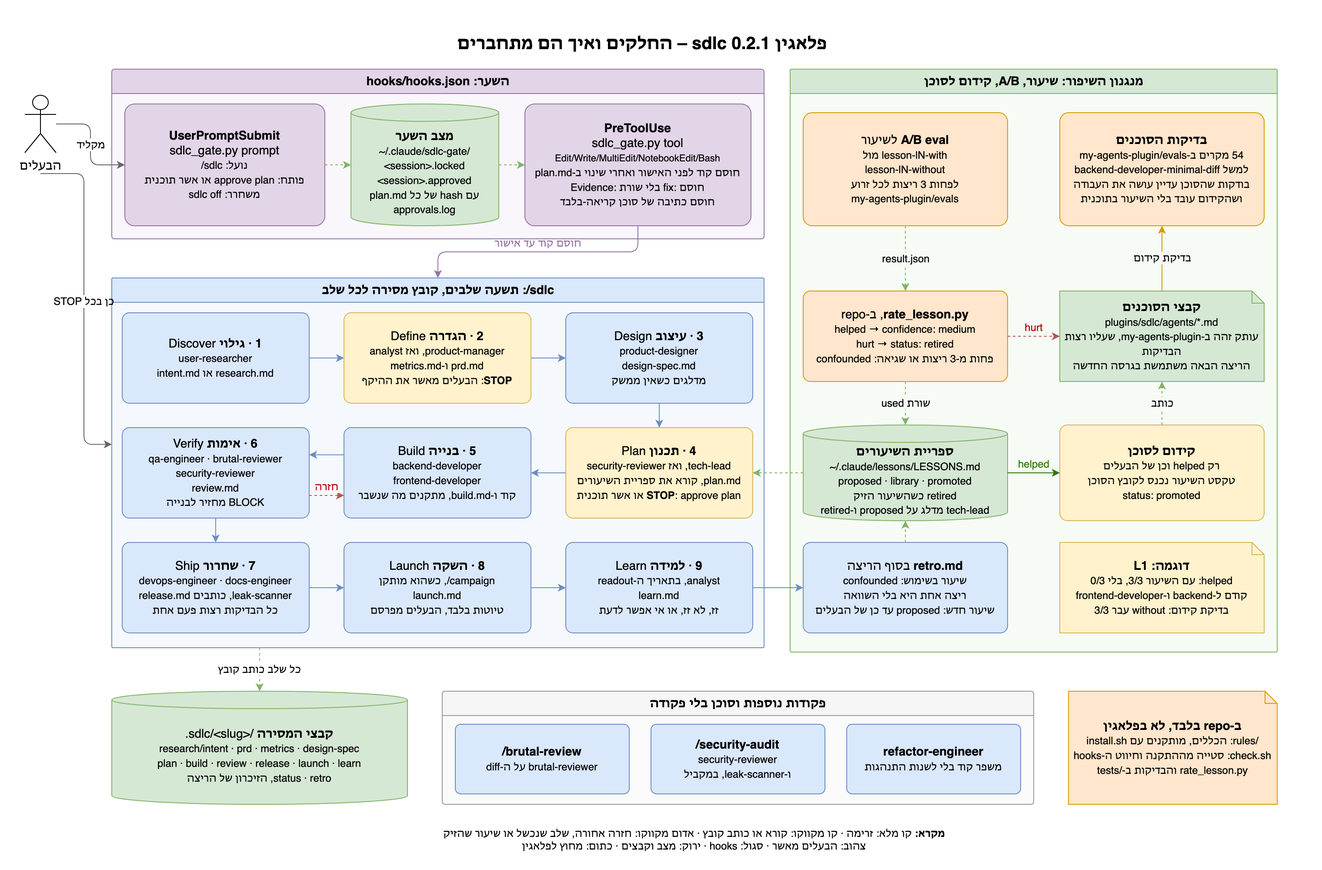
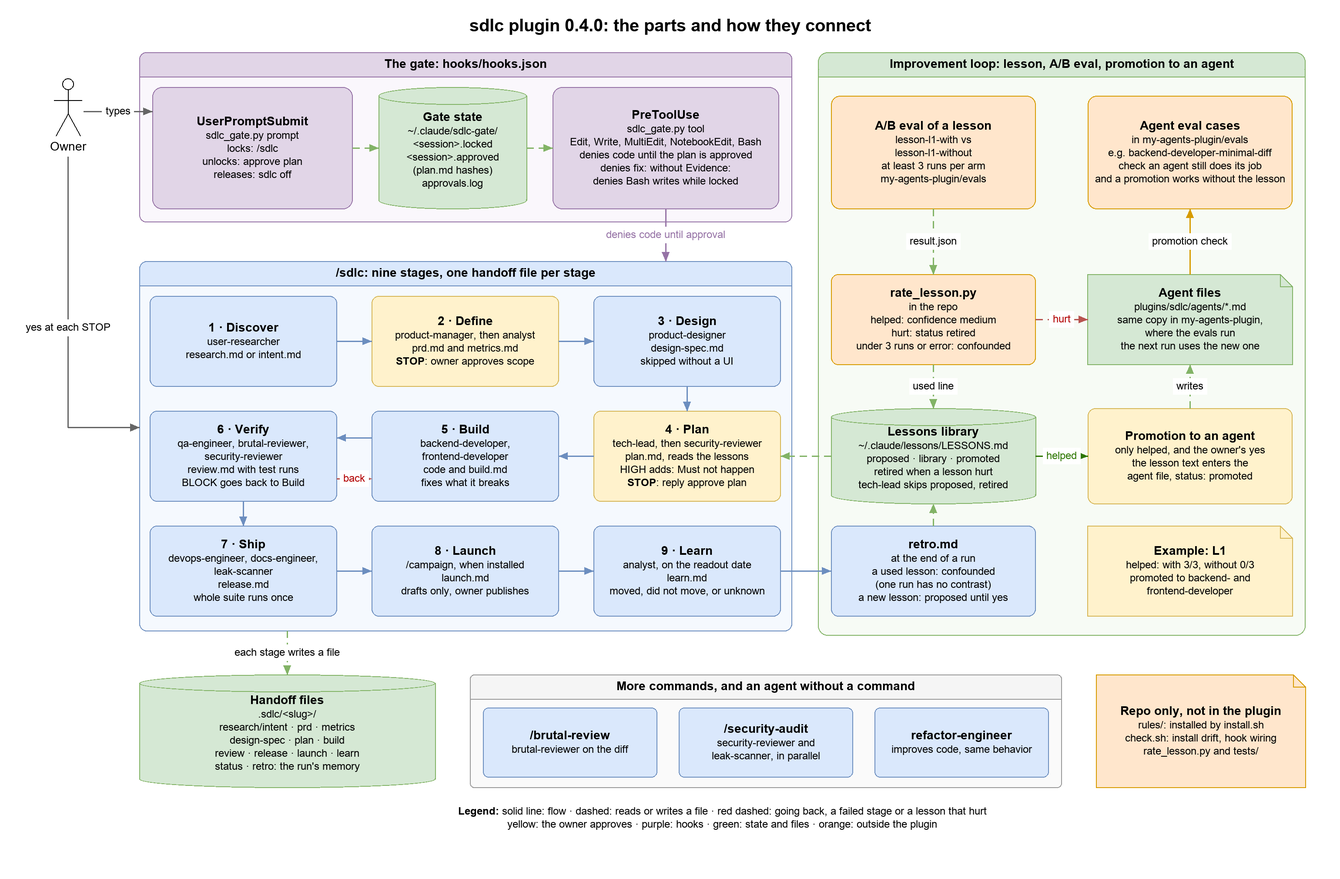
improve: shorten the readme and redraw the architecture diagram in english
README cut from 172 to 115 lines; the lessons library guide moved to docs/lessons-library.md unchanged. The diagram is English and shows 0.4.0 (the old one was Hebrew and showed 0.2.1).

diff --git a/README.md b/README.md
@@ -1,87 +1,34 @@
 # sdlc
 
-A risk-tiered software development lifecycle for [Claude Code](https://code.claude.com): role agents that plan, build, verify and ship, gates where a person decides, and evidence instead of claims.
+A risk-tiered software development process for [Claude Code](https://code.claude.com): role agents that plan, build, verify and ship, gates where a person decides, and evidence instead of claims.
 
-The idea is to use the lightest process the risk allows. A one-line UI fix goes straight through, while an auth change waits for a design review and your yes. Every gate that is skipped is reported as skipped, and every check that did not run is reported as not run.
-
-## What is inside
-
-| Path | What |
-|---|---|
-| `plugins/sdlc/agents/` | 14 role agents: `tech-lead`, `product-manager`, `product-designer`, `analyst`, `user-researcher`, `backend-developer`, `frontend-developer`, `qa-engineer`, `brutal-reviewer`, `security-reviewer`, `refactor-engineer`, `devops-engineer`, `docs-engineer`, `leak-scanner` |
-| `plugins/sdlc/commands/` | `/sdlc` (the full pipeline), `/brutal-review`, `/security-audit` |
-| `rules/` | 7 engineering rules for `~/.claude/rules/`: principles, code standards, architecture and state, quality and testing, the SDLC itself, debugging and governance, frontend |
-| `plugins/sdlc/hooks/` | the gate hooks (`sdlc_gate.py`, wired by `hooks.json`): no code before you approve the plan, `Evidence:` on `fix:` commits, read-only review agents stay read-only |
-| `scripts/` | `install.sh` (rules, and optionally agents and commands, into `~/.claude`), `check.sh` (drift, hook wiring, version check, and promoted lessons missing from an installed agent), `rate_lesson.py` (a lesson's A/B eval rating and the regression check of a promotion, written to the lessons library), `check_lessons.py` (the promoted-lesson check `check.sh` calls), `failures.py` (counts the different tasks that hit the same tagged failure, from their retros) and `suite.py` (freezes eval cases by hash, and keeps a baseline per agent version) |
-| `tests/` | unit tests for the gate hooks, `rate_lesson.py`, `check.sh`, `check_lessons.py`, `failures.py` and `suite.py` |
-| `docs/` | `architecture.drawio`, the diagram below, and `architecture.png`, its rendered image |
+It uses the lightest process the risk allows. A one-line UI fix goes straight through; an auth change waits for a design review and your yes. A skipped gate is reported as skipped, and a check that did not run is reported as not run.
 
 ![The plugin's parts and how they connect: the gate hooks, the nine /sdlc stages, and the loop that improves the agents](docs/architecture.png)
 
-The diagram's labels are in Hebrew. Its source is `docs/architecture.drawio`: open it in draw.io or at [app.diagrams.net](https://app.diagrams.net), and export it again to `docs/architecture.png` after a change.
-
-## How it works
-
-**1. Classify the risk first** (`rules/sdlc.md`).
-
-| Risk | Examples | Process |
-|---|---|---|
-| LOW | small UI change, local refactor, docs, isolated bug fix | Do it, then verify it with the one check that proves it. |
-| MEDIUM | new feature, shared component, API behaviour change | A short plan with acceptance criteria, then build, test, and an independent review. |
-| HIGH | auth, migrations, concurrency, infrastructure, anything security-sensitive | Design review with failure analysis and rollback; you say yes before the first edit. |
-
-**2. `/sdlc` for a feature that starts from an idea.** It runs nine stages, and each one writes a handoff file in `.sdlc/<slug>/`. The files, not the chat, are the project's memory.
-
-| # | Stage | Agent | Writes |
-|---|---|---|---|
-| 1 | Discover | `user-researcher`, or an `intent.md` when you state the problem | `research.md` / `intent.md` |
-| 2 | Define (**STOP**: you approve scope) | `product-manager`, `analyst` | `prd.md`, `metrics.md` |
-| 3 | Design (skipped without UI) | `product-designer` | `design-spec.md` |
-| 4 | Plan (**STOP**: you approve the plan) | `tech-lead`, `security-reviewer` on the plan | `plan.md` |
-| 5 | Build | `backend-developer`, `frontend-developer` | code, `build.md` |
-| 6 | Verify | `qa-engineer`, `brutal-reviewer`, `security-reviewer` | `review.md` |
-| 7 | Ship | `devops-engineer`, `docs-engineer`, `leak-scanner` | `release.md` |
-| 8 | Launch (optional, needs `/campaign`) | marketing | `launch.md` |
-| 9 | Learn (on the readout date) | `analyst` | `learn.md` |
-
-The plan carries a requirement map (every requirement ID to its files and its proving check). It also has an **Instances** section: every call site, sibling or key family a change must cover, with the grep that found them. Trust boundaries are named before any code exists. A builder fixes what its change breaks outside its files and lists each one under **Outside the plan** in `build.md`. It reports instead of editing when the file belongs to another builder or the repair needs a choice the plan does not make. The retro reads each one as a plan miss, so the next plan can list it. A failed gate sends the work back to the stage that owns the fix. Nothing is committed, pushed or published unless you ask.
-
-A run survives a closed session: `status.md` records each stage as `pending`, `running`, `done`, `skipped`, `blocked` or `failed`, with the run's base commit and the plan's hash. `/sdlc resume <slug>` re-runs the stage a crash left `running`. It compares the plan and a fingerprint of the built code with the recorded ones, and sends the run back to Plan or Verify when they differ. The gate hook locks the session again on `/sdlc`, so you type `approve plan` again.
-
-**3. Gate hooks** (`plugins/sdlc/hooks/`). A rule in a prompt holds only while the model reads it the way you meant, so the gates that must hold are hooks:
-
-- **No code before the plan is approved.** Typing `/sdlc` locks code edits (Edit, Write, MultiEdit, NotebookEdit) in that session's project; files under `.sdlc/` stay writable. Typing `approve plan` or `אשר תוכנית` unlocks them, logs your words in `~/.claude/sdlc-gate/approvals.log`, and binds the approval to the hash of each `.sdlc/*/plan.md`: if a plan changes, or a new one appears, afterwards, code edits lock again until you approve again. Any other reply, however positive, leaves the lock in place. When more than one `.sdlc/*/plan.md` exists and one of them holds a scope block, you reply `approve plan <folder>` to say which plan you approve. When that plan holds an `sdlc-scope` block (one pattern per line, relative to the project root), the approval freezes it: afterwards only matching files can be edited, and a file outside it is denied until you change the plan and approve again. A scope never covers `.git`, `.claude` or `.mcp.json`, wherever they sit. The gate refuses to approve a block it cannot read the way you do: a pattern that matches nearly every file, an absolute path or `..`, a control character, a block inside another code fence, more than one block. A plan without the block is not path-limited, and the log says `scope=none`. The approval and any refusal are also shown to you, not only sent to the model. `sdlc off` releases the session, for a LOW change you decide to do outside the pipeline.
-- **`Evidence:` on `fix:` commits.** A `git commit` whose subject is `fix:` or `fix(scope):` and whose message has no `Evidence:` line is denied. Every commit in the command is checked, and a `-F` file is read from where the commit runs (after a `cd` or `git -C`). When it cannot read the message (piped into `-F -`, or a `-F` file the same command writes first), it checks the text that supplies it, the pipe or heredoc into `-F -` or the statement that writes the file, for a `fix:` subject and an `Evidence:` line.
-- **Read-only agents stay read-only, on a best-effort basis.** A Bash command from `tech-lead`, `security-reviewer`, `brutal-reviewer`, `analyst` or `leak-scanner` is denied when it matches a list of the common ways to write: a redirect into a file, `rm`/`mv`/`cp` and their kin, `sh -c`, inline code (`python3 -c`, `node -e`, `perl -e`, an interpreter fed a heredoc), `awk` that writes, in-place `sed` or `perl`, an install, `find -delete`, or a git command that changes state. It is a denylist, not a sandbox: a script file that writes, a verb built at run time, a quoted verb and any verb not listed get through, and some spellings are missed (`python3 -W error -c`, `awk` printing into a pipe).
-
-The gates prevent mistakes, not attacks: they stop a reply that was misread and a model's slip, not an agent set on getting past them. They are guardrails for the workflow, and they do not show that the requirements are right or complete: passing checks show the checks passed, not that the criteria are the right ones. For HIGH work the plan lists what must not happen and the assumptions about the request, so the owner can catch a missing requirement before code exists. This plugin's gates are a best-effort guardrail; an action that must never happen belongs in Claude Code's permission deny rules or a sandbox. They need `python3` (3.9 or later). A crash of the tool hook in a session that is locked or has an approved plan denies the action (reply `sdlc off` to release the session); so does the scope check, and so does a file path the gate cannot read there. With no lock, or input that cannot name a session, an error lets the action through, and a timeout lets it through even when gated; `SDLC_GATE=off` turns the gates off, `SDLC_GATE_SCOPE=off` only the scope check. While a session is locked, or a plan changed after you approved it, a Bash command that writes is denied for every agent (write files under `.sdlc/` with the Write tool, which creates the folders; a redirect into `/tmp` is allowed). Some read pipelines are denied then too, such as `npm test | tee out.log` or `git checkout -b x`; `approve plan` or `sdlc off` ends that. A Bash command that spells `~/.claude/sdlc-gate/` and writes is denied in any session (a relative path after `cd`, a glob or a variable is not seen). A Bash write is judged by a denylist (redirects, `rm`, `git commit`, `python -c`, `node -e` and similar), not a sandbox: a verb it does not list, a script file that writes, or a path built at run time gets through, a scope pattern is not checked for Bash, an edit outside `CLAUDE_PROJECT_DIR` (a sibling package of a larger repo) is never gated, and a run resumed in a new session needs `approve plan` typed again. A boundary that holds against a hostile model needs enforcement outside the model, such as an OS sandbox; this plugin does not provide one. `SDLC_GATE_TRACE=1` logs what Claude Code sends each hook to `~/.claude/sdlc-gate/trace.log`.
+The diagram's source is `docs/architecture.drawio`. Open it in [draw.io](https://app.diagrams.net) and export it again to `docs/architecture.png` after a change.
 
 ## Install
 
-**The agents and commands, as a plugin:**
+**Plugin** (agents, commands and gate hooks):
 
 ```
 /plugin marketplace add amir1824/sdlc
 /plugin install sdlc@sdlc
 ```
 
-**The rules** (recommended, since the agents assume them):
+**Rules** (recommended, since the agents assume them):
 
 ```bash
 git clone https://github.com/amir1824/sdlc.git && cd sdlc && scripts/install.sh
 ```
 
-`install.sh` copies the rules into `~/.claude/rules/`. Any file it replaces is moved to `~/.claude/.sdlc-backup/<time>/` first. Nothing is deleted.
+`install.sh` copies the rules into `~/.claude/rules/`. A file it replaces is moved to `~/.claude/.sdlc-backup/<time>/` first; nothing is deleted.
 
-**If you maintain this repo,** link instead of copying, so you edit in one place and `git pull` updates your install:
+<details>
+<summary>Maintaining this repo: link instead of copy</summary>
 
-```bash
-scripts/install.sh --link --agents
-```
-
-`--agents` also puts the agents and commands straight into `~/.claude` without the plugin's namespace. Do not combine it with the plugin install, or each agent appears twice.
-
-Plugin hooks load only with the plugin, so a `--link --agents` install wires them in `~/.claude/settings.json` (back the file up first; `scripts/check.sh` shows `linked` once it is there):
+`scripts/install.sh --link --agents` links the rules, agents and commands into `~/.claude`, so `git pull` updates your install. Do not combine it with the plugin install, or each agent appears twice. Plugin hooks load only with the plugin, so wire them in `~/.claude/settings.json` yourself (back it up first; `scripts/check.sh` shows `linked` once they are there):
 
 ```json
 "hooks": {
@@ -95,78 +42,74 @@ Plugin hooks load only with the plugin, so a `--link --agents` install wires the
 }
 ```
 
-To keep your own version of a file, for example an agent with your own MCP connectors in its `tools:` line, list it in `~/.claude/.sdlc-local-overrides`, one path per line (`agents/product-manager.md`). `install.sh` never replaces a listed file, and `check.sh` shows it as `local`.
+To keep your own version of a file (for example an agent with your own MCP tools), list it in `~/.claude/.sdlc-local-overrides`, one path per line (`agents/product-manager.md`). `install.sh` never replaces a listed file.
+
+</details>
+
+## What is inside
+
+| Path | What |
+|---|---|
+| `plugins/sdlc/agents/` | 14 role agents: planning, building, review, security, devops, docs and research |
+| `plugins/sdlc/commands/` | `/sdlc` (the full pipeline), `/brutal-review`, `/security-audit` |
+| `plugins/sdlc/hooks/` | the gate hooks (`sdlc_gate.py`, wired by `hooks.json`) |
+| `rules/` | 7 engineering rules for `~/.claude/rules/` |
+| `scripts/` | `install.sh`, `check.sh` (drift, hook wiring, versions), and the tools for the [lessons library](docs/lessons-library.md) |
+| `tests/` | unit tests for the hooks and the scripts |
+| `docs/` | the diagram and the lessons library guide |
+
+## How it works
+
+**1. Classify the risk first** (`rules/sdlc.md`).
+
+| Risk | Examples | Process |
+|---|---|---|
+| LOW | small UI change, local refactor, docs, isolated bug fix | Do it, then run the one check that proves it. |
+| MEDIUM | new feature, shared component, API behaviour change | A short plan with acceptance criteria, then build, test, and an independent review. |
+| HIGH | auth, migrations, concurrency, infrastructure, anything security-sensitive | Design review with failure analysis and rollback. You say yes before the first edit. |
+
+**2. `/sdlc` runs a feature through nine stages.** Each stage writes a handoff file in `.sdlc/<slug>/`; the files, not the chat, are the project's memory.
+
+| # | Stage | Agent | Writes |
+|---|---|---|---|
+| 1 | Discover | `user-researcher`, or the chair when you state the problem | `research.md` / `intent.md` |
+| 2 | Define (**STOP**: you approve scope) | `product-manager`, `analyst` | `prd.md`, `metrics.md` |
+| 3 | Design (skipped without UI) | `product-designer` | `design-spec.md` |
+| 4 | Plan (**STOP**: you approve the plan) | `tech-lead`, then `security-reviewer` | `plan.md` |
+| 5 | Build | `backend-developer`, `frontend-developer` | code, `build.md` |
+| 6 | Verify | `qa-engineer`, `brutal-reviewer`, `security-reviewer` | `review.md` |
+| 7 | Ship | `devops-engineer`, `docs-engineer`, `leak-scanner` | `release.md` |
+| 8 | Launch (optional, needs `/campaign`) | marketing | `launch.md` |
+| 9 | Learn (on the readout date) | `analyst` | `learn.md` |
+
+- The plan maps every requirement to its files and its proving check, lists every call site a change must cover, and names the trust boundaries before any code exists. For HIGH work it also lists what **must not happen** and the assumptions made about the request, so you can catch a missing requirement before code exists.
+- A builder fixes what its change breaks and lists each such file in `build.md`.
+- For HIGH work every test run is recorded in `review.md` with a fingerprint of the code it ran on. At Ship, a run whose code changed since is stale and runs again.
+- A run survives a closed session: `/sdlc resume <slug>` continues from `status.md`. You type `approve plan` again, because the gate never counts an earlier approval.
+
+**3. Gate hooks** (`plugins/sdlc/hooks/`). A rule written in a prompt holds only while the model reads it the way you meant, so the gates that must hold are hooks.
+
+- **No code before the plan is approved.** `/sdlc` locks code edits (Edit, Write, MultiEdit, NotebookEdit) and Bash writes in that session. Files under `.sdlc/` stay writable with the Write tool. Reply `approve plan` to unlock; your words are logged in `~/.claude/sdlc-gate/approvals.log`, and the approval is bound to the hash of each `.sdlc/*/plan.md`, so a changed or new plan locks again. Any other reply, however positive, leaves the lock in place. A plan can hold an `sdlc-scope` block, which the approval freezes: only matching files can then be edited. With several plans and one scope block, reply `approve plan <folder>`. `sdlc off` releases the session.
+- **`fix:` commits need evidence.** A `fix:` commit whose message has no `Evidence:` line is denied.
+- **Read-only agents stay read-only.** A Bash command from `tech-lead`, `security-reviewer`, `brutal-reviewer`, `analyst` or `leak-scanner` is denied when it matches a list of common writes: redirects, `rm`/`mv`/`cp`, inline interpreter code, git commands that change state, installs.
+- **The gate's own state is the owner's.** A Bash command that writes to `~/.claude/sdlc-gate/` is denied in every session.
+
+These gates are a best-effort guardrail. They stop a misread reply and a model's slip, not an agent set on getting past them: Bash writes are judged by a denylist, so a verb it does not list gets through, and a scope pattern is not checked for Bash. They do not show that your requirements are right, only that the workflow was followed. An action that must never happen belongs in Claude Code's permission deny rules or a sandbox.
+
+If the gate itself crashes in a locked or approved session, it denies the action (reply `sdlc off` to release). In any other session an error lets the action through. While locked, some read pipelines such as `npm test | tee out.log` are denied too; `approve plan` or `sdlc off` ends that. The gates need `python3` 3.9 or later. `SDLC_GATE=off` turns them off, `SDLC_GATE_SCOPE=off` turns off only the scope check, and `SDLC_GATE_TRACE=1` logs what Claude Code sends each hook to `~/.claude/sdlc-gate/trace.log`.
 
 ## Optional skills
 
-Some gates call skills from other plugins: `idea-slayer` and `architecture-slayer` (Anthropic skills), and `change-impact`, `browser-qa`, `click-path-audit` and `canary-watch` (ECC). When one is not installed, the stage says "not run" at the top of its file instead of inventing a verdict. A few agents also name ECC skills in their "load when they fit" lists; those lists are optional.
+Some gates call skills from other plugins: `idea-slayer` and `architecture-slayer` (Anthropic), and `change-impact`, `browser-qa`, `click-path-audit` and `canary-watch` (ECC). When one is not installed, the stage says "not run" at the top of its file instead of inventing a verdict.
 
-## A lessons library (optional)
+## The lessons library (optional)
 
-`/sdlc` can learn between runs (the green box in the [diagram](docs/architecture.png) draws the whole loop):
+`/sdlc` can learn between runs: lessons from each retro are rated by an A/B eval and, when they help and you agree, promoted into an agent. See [docs/lessons-library.md](docs/lessons-library.md).
 
-- **At Plan,** `tech-lead` reads `~/.claude/lessons/LESSONS.md` when it exists. It applies the lessons whose cue fits the change, skipping `proposed` and `retired` ones, and verifies their facts first.
-- **At the retro,** each lesson the plan used gets a row: what it changed and what was observed. One run has no contrast, so the row is rated `confounded`. At most one new lesson is added, as `proposed`, and `tech-lead` does not apply it until you accept it.
-- **Every failure is tagged.** The retro's **Failures** table gives each distinct failure of the task a row: a tag from a fixed list, the stage that caught it, the agent, a root cause, the evidence and the resolution. `python3 -I scripts/failures.py <project folders>` counts the different tasks per tag and agent, so a failure that recurs across tasks is visible before anyone proposes a lesson for it. It counts a failure once per task, and reports a row with a tag outside the list.
-- **An A/B eval rates a lesson:** the same case run with the lesson in the builder's plan and without it. `hurt` retires the lesson, and `helped` raises its confidence to medium. A promoted lesson that is later rated `hurt` also needs its text reverted in the agent it was written into; the script says so.
-- **Agent files** never change from a run. Promoting a lesson into an agent needs `helped` from its A/B eval, and your yes. After the edit, a regression check runs all of that agent's eval cases against a run from before it, and an edit that made a case worse is reverted.
+## Versions and changing it
 
-To start a library, create the file with entries like this (an entry you write yourself can start as `library`; one the retro adds starts as `proposed`):
+- `plugins/sdlc/.claude-plugin/plugin.json` and `.claude-plugin/marketplace.json` carry the same [semver](https://semver.org) version; `scripts/check.sh` fails when they differ.
+- To update, plugin users run `/plugin marketplace update sdlc`. With `--link`, `git pull` is enough. With a copy, run `scripts/install.sh` again.
+- `scripts/check.sh` lists every installed file as linked, same, DRIFT, local or missing, so you can see a local edit that never reached the repo.
 
-```markdown
-## L1 · backend-developer · INV
-- cue: a change alters a function's signature that other code calls
-- lesson: grep every call site, tests included, and update each before reporting done
-- evidence: <the run and the finding>
-- confidence: low
-- status: library
-- used: none yet
-```
-
-To rate a lesson:
-
-1. In your plugin's eval suite, write two cases named `lesson-<id>-with` and `lesson-<id>-without`. They share the prompt, the graders and the scaffold, and differ only in the lesson's line in the builder's plan. The graders check the operation the lesson names, for example that no file still calls the old signature.
-2. Run both, at least 3 runs each. Grant the tools the builder edits with: without `--allow-tools`, every run of both arms fails, and the rating says `no observed effect` about nothing. Add `--trust-plugin` when the run cannot stop to ask, and export `SDLC_GATE=off` when a case's prompt starts with `/sdlc`.
-
-   ```bash
-   claude plugin eval <plugin> --case 'lesson-l1-*' --scaffold --ablation none --allow-tools Bash Write Edit --json result.json
-   ```
-
-3. Write the rating to the library, from a clone of this repo (the plugin does not install scripts):
-
-   ```bash
-   python3 -I scripts/rate_lesson.py result.json L1
-   ```
-
-   It counts the runs that passed in each arm. A gap of at least half in pass rate is `helped` or `hurt`, and a smaller gap is `no observed effect`. An errored run, a run that skipped its paid graders, an eval that stopped early, or fewer than 3 runs in an arm is `confounded`.
-
-To promote a rated lesson (after `helped` and your yes), check that the agent edit broke nothing else. The frozen suite, the baselines and the hidden holdout live with the plugin's evals (here `my-agents-plugin/evals`, `evals/baselines` and `evals-holdout`):
-
-1. **Freeze once.** `python3 -I scripts/suite.py freeze evals/suites/regression.json evals <case> ...` records a hash of every file of each case, and refuses to overwrite a manifest. `scripts/check.sh` runs `suite.py check` when `SDLC_EVALS` names the eval folder (`export SDLC_EVALS=~/claude-mods/my-agents-plugin/evals`): a case that was edited after freezing is CHANGED, and a baseline taken for another version of the agent file is `stale`.
-2. **A baseline per agent version.** Run the agent's cases (`claude plugin eval <plugin> --case '<agent>-*' --scaffold --ablation none --allow-tools Bash Write Edit --trust-plugin --json result.json`, 5 runs each), then `python3 -I scripts/suite.py baseline result.json --agent-file <the plugin's agents/<agent>.md> --out evals/baselines --manifest evals/suites/regression.json`. It keeps each run's pass, error, cost and time in `<agent>-<hash>.json`, where the hash names the agent file. A case it lists as RERUN (a timeout, a skipped paid grader, fewer than 5 runs, a frozen case missing from the results) is run alone, and its result file is added to the same command: a later result replaces that case's runs.
-3. **Edit, then run again.** Edit the agent, sync the plugin's copy, and run the same cases into `after.json`, and the hidden holdout (`--eval-dir evals-holdout`, a baseline kept in `evals-holdout/baselines`) the same way.
-4. **Record the comparison,** naming the agent file so the entry carries its hash:
-
-   ```bash
-   python3 -I scripts/rate_lesson.py after.json L1 --regression evals/baselines/<agent>-<hash>.json --agent plugins/sdlc/agents/<agent>.md
-   ```
-
-   A case that both runs hold, with at least 3 runs and no error or skipped paid grader in each, is judged, and it dropped when its pass rate fell by half or more. `ok` means none dropped. `REGRESSED` names the cases and exits 1: revert the edit, or fix it and run both again. `confounded` (nothing judged, or the eval stopped early) exits 1 too, since it shows nothing. The lesson's status and confidence do not change.
-
-`scripts/check.sh` then reports a promoted lesson whose quoted text is missing from an installed agent (a local copy that never got the edit), and a rating whose agent file has changed since.
-
-## Versions
-
-- `plugins/sdlc/.claude-plugin/plugin.json` and `.claude-plugin/marketplace.json` carry the same [semver](https://semver.org) version, and `scripts/check.sh` fails when they differ.
-- Each release adds an entry to `CHANGELOG.md` and a git tag `vX.Y.Z`.
-- To update: plugin users run `/plugin marketplace update sdlc`. With `--link`, `git pull` is enough. With a copy, run `scripts/install.sh` again.
-- `scripts/check.sh` lists every installed file as linked, same, DRIFT or missing, so you can see a local edit that never made it back to the repo. A rule that is not installed shows as MISSING and fails the check, since the plugin does not ship rules.
-
-## Changing it
-
-1. Edit the agent, command or rule in this repo.
-2. Run `scripts/check.sh` and `python3 -I -m unittest discover -s tests`.
-3. Bump the version in both JSON files and add a `CHANGELOG.md` entry.
-4. Open a pull request.
-
-A change to how the agents behave is worth an eval run before it ships.
+To change the plugin: edit the agent, command or rule in this repo, run `scripts/check.sh` and `python3 -I -m unittest discover -s tests`, bump the version in both JSON files, add a `CHANGELOG.md` entry, and open a pull request. A change to how an agent behaves is worth an eval run before it ships.

diff --git a/docs/lessons-library.md b/docs/lessons-library.md
@@ -1,0 +1,53 @@
+# The lessons library (optional)
+
+`/sdlc` can learn between runs (the green box in the [diagram](architecture.png) draws the whole loop):
+
+- **At Plan,** `tech-lead` reads `~/.claude/lessons/LESSONS.md` when it exists. It applies the lessons whose cue fits the change, skipping `proposed` and `retired` ones, and verifies their facts first.
+- **At the retro,** each lesson the plan used gets a row: what it changed and what was observed. One run has no contrast, so the row is rated `confounded`. At most one new lesson is added, as `proposed`, and `tech-lead` does not apply it until you accept it.
+- **Every failure is tagged.** The retro's **Failures** table gives each distinct failure of the task a row: a tag from a fixed list, the stage that caught it, the agent, a root cause, the evidence and the resolution. `python3 -I scripts/failures.py <project folders>` counts the different tasks per tag and agent, so a failure that recurs across tasks is visible before anyone proposes a lesson for it. It counts a failure once per task, and reports a row with a tag outside the list.
+- **An A/B eval rates a lesson:** the same case run with the lesson in the builder's plan and without it. `hurt` retires the lesson, and `helped` raises its confidence to medium. A promoted lesson that is later rated `hurt` also needs its text reverted in the agent it was written into; the script says so.
+- **Agent files** never change from a run. Promoting a lesson into an agent needs `helped` from its A/B eval, and your yes. After the edit, a regression check runs all of that agent's eval cases against a run from before it, and an edit that made a case worse is reverted.
+
+To start a library, create the file with entries like this (an entry you write yourself can start as `library`; one the retro adds starts as `proposed`):
+
+```markdown
+## L1 · backend-developer · INV
+- cue: a change alters a function's signature that other code calls
+- lesson: grep every call site, tests included, and update each before reporting done
+- evidence: <the run and the finding>
+- confidence: low
+- status: library
+- used: none yet
+```
+
+To rate a lesson:
+
+1. In your plugin's eval suite, write two cases named `lesson-<id>-with` and `lesson-<id>-without`. They share the prompt, the graders and the scaffold, and differ only in the lesson's line in the builder's plan. The graders check the operation the lesson names, for example that no file still calls the old signature.
+2. Run both, at least 3 runs each. Grant the tools the builder edits with: without `--allow-tools`, every run of both arms fails, and the rating says `no observed effect` about nothing. Add `--trust-plugin` when the run cannot stop to ask, and export `SDLC_GATE=off` when a case's prompt starts with `/sdlc`.
+
+   ```bash
+   claude plugin eval <plugin> --case 'lesson-l1-*' --scaffold --ablation none --allow-tools Bash Write Edit --json result.json
+   ```
+
+3. Write the rating to the library, from a clone of this repo (the plugin does not install scripts):
+
+   ```bash
+   python3 -I scripts/rate_lesson.py result.json L1
+   ```
+
+   It counts the runs that passed in each arm. A gap of at least half in pass rate is `helped` or `hurt`, and a smaller gap is `no observed effect`. An errored run, a run that skipped its paid graders, an eval that stopped early, or fewer than 3 runs in an arm is `confounded`.
+
+To promote a rated lesson (after `helped` and your yes), check that the agent edit broke nothing else. The frozen suite, the baselines and the hidden holdout live with the plugin's evals (here `my-agents-plugin/evals`, `evals/baselines` and `evals-holdout`):
+
+1. **Freeze once.** `python3 -I scripts/suite.py freeze evals/suites/regression.json evals <case> ...` records a hash of every file of each case, and refuses to overwrite a manifest. `scripts/check.sh` runs `suite.py check` when `SDLC_EVALS` names the eval folder (`export SDLC_EVALS=~/claude-mods/my-agents-plugin/evals`): a case that was edited after freezing is CHANGED, and a baseline taken for another version of the agent file is `stale`.
+2. **A baseline per agent version.** Run the agent's cases (`claude plugin eval <plugin> --case '<agent>-*' --scaffold --ablation none --allow-tools Bash Write Edit --trust-plugin --json result.json`, 5 runs each), then `python3 -I scripts/suite.py baseline result.json --agent-file <the plugin's agents/<agent>.md> --out evals/baselines --manifest evals/suites/regression.json`. It keeps each run's pass, error, cost and time in `<agent>-<hash>.json`, where the hash names the agent file. A case it lists as RERUN (a timeout, a skipped paid grader, fewer than 5 runs, a frozen case missing from the results) is run alone, and its result file is added to the same command: a later result replaces that case's runs.
+3. **Edit, then run again.** Edit the agent, sync the plugin's copy, and run the same cases into `after.json`, and the hidden holdout (`--eval-dir evals-holdout`, a baseline kept in `evals-holdout/baselines`) the same way.
+4. **Record the comparison,** naming the agent file so the entry carries its hash:
+
+   ```bash
+   python3 -I scripts/rate_lesson.py after.json L1 --regression evals/baselines/<agent>-<hash>.json --agent plugins/sdlc/agents/<agent>.md
+   ```
+
+   A case that both runs hold, with at least 3 runs and no error or skipped paid grader in each, is judged, and it dropped when its pass rate fell by half or more. `ok` means none dropped. `REGRESSED` names the cases and exits 1: revert the edit, or fix it and run both again. `confounded` (nothing judged, or the eval stopped early) exits 1 too, since it shows nothing. The lesson's status and confidence do not change.
+
+`scripts/check.sh` then reports a promoted lesson whose quoted text is missing from an installed agent (a local copy that never got the edit), and a rating whose agent file has changed since.

diff --git a/CHANGELOG.md b/CHANGELOG.md
@@ -10,6 +10,7 @@ Gaps found by a red-team review of the process: what the plan never asked, and t
 - `review.md` gets a **Test runs** table (HIGH: every run; MEDIUM: the whole-suite run at Ship): command, exit code, fingerprint of the code it ran on, time, output and the requirements it covers. The agent that ran the tests takes the fingerprint before and after; the row counts only when they are equal. At Ship, and on `/sdlc resume` after Verify, a row whose fingerprint differs from the code now is stale and runs again. This is the chair's own check, not a hook, and it shows the evidence matches the code, not that the code is right.
 - An owner who accepts a `not covered` Must-not-happen line does so in their own words, quoted in `status.md`.
 - README: the gates are described as guardrails that do not prove the requirements are right; an action that must never happen belongs in the host's permission deny rules or a sandbox.
+- Docs: the README is shorter and simpler (172 to 115 lines). The lessons library guide moved to `docs/lessons-library.md`, unchanged. The architecture diagram is redrawn in English and matches 0.4.0 (it showed 0.2.1 and Hebrew labels).
 
 ## 0.4.0 (2026-11-05)
 
